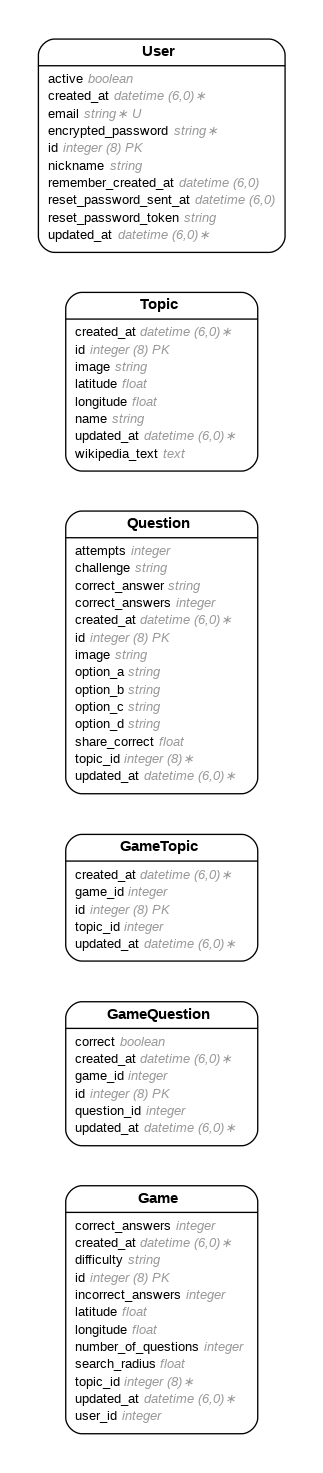
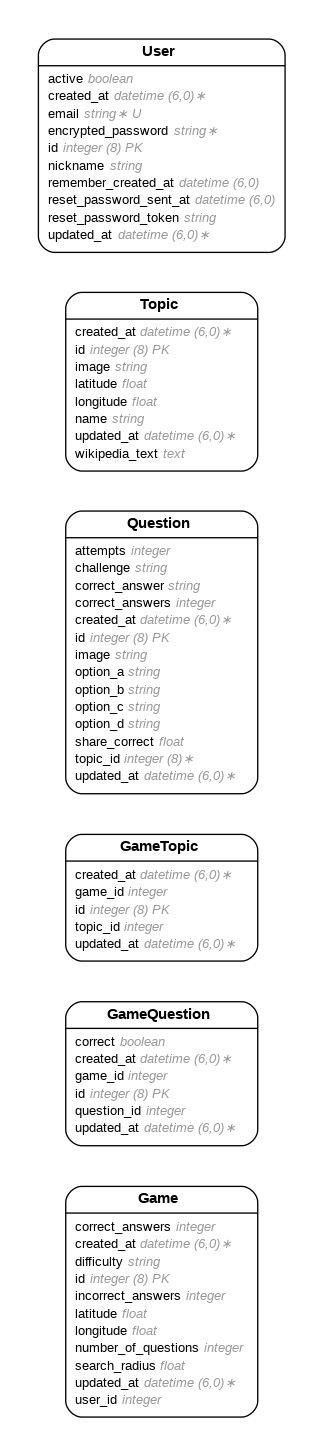
add sample data for topics

Changed region(s): [[0.1238, 0.0309, 0.8669, 0.989]]

diff --git a/db/schema.rb b/db/schema.rb
@@ -10,7 +10,7 @@
 #
 # It's strongly recommended that you check this file into your version control system.
 
-ActiveRecord::Schema[7.1].define(version: 2025_05_15_192341) do
+ActiveRecord::Schema[7.1].define(version: 2025_05_15_210758) do
   # These are extensions that must be enabled in order to support this database
   enable_extension "plpgsql"
 
@@ -40,8 +40,6 @@ ActiveRecord::Schema[7.1].define(version: 2025_05_15_192341) do
     t.integer "user_id"
     t.datetime "created_at", null: false
     t.datetime "updated_at", null: false
-    t.bigint "topic_id", null: false
-    t.index ["topic_id"], name: "index_games_on_topic_id"
   end
 
   create_table "questions", force: :cascade do |t|
@@ -85,6 +83,5 @@ ActiveRecord::Schema[7.1].define(version: 2025_05_15_192341) do
     t.index ["reset_password_token"], name: "index_users_on_reset_password_token", unique: true
   end
 
-  add_foreign_key "games", "topics"
   add_foreign_key "questions", "topics"
 end

diff --git a/app/models/game.rb b/app/models/game.rb
@@ -12,16 +12,7 @@
 #  search_radius       :float
 #  created_at          :datetime         not null
 #  updated_at          :datetime         not null
-#  topic_id            :bigint           not null
 #  user_id             :integer
-#
-# Indexes
-#
-#  index_games_on_topic_id  (topic_id)
-#
-# Foreign Keys
-#
-#  fk_rails_...  (topic_id => topics.id)
 #
 class Game < ApplicationRecord
 end

diff --git a/db/migrate/20250515210758_remove_topic_from_games.rb b/db/migrate/20250515210758_remove_topic_from_games.rb
@@ -1,0 +1,5 @@
+class RemoveTopicFromGames < ActiveRecord::Migration[7.1]
+  def change
+    remove_reference :games, :topic, null: false, foreign_key: true
+  end
+end
